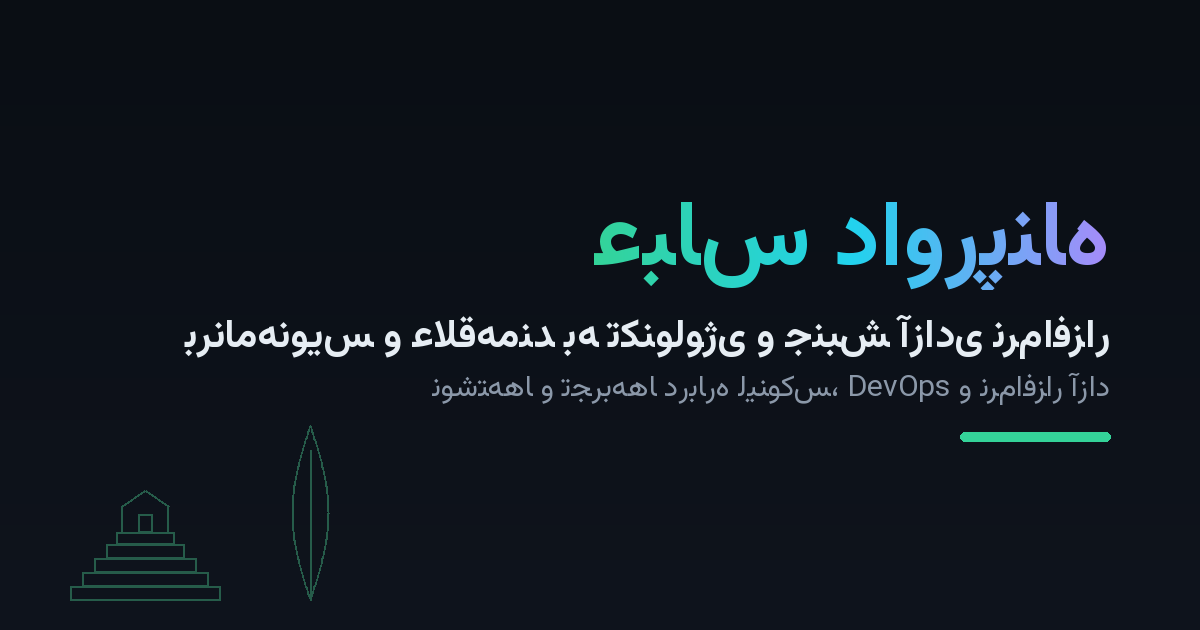
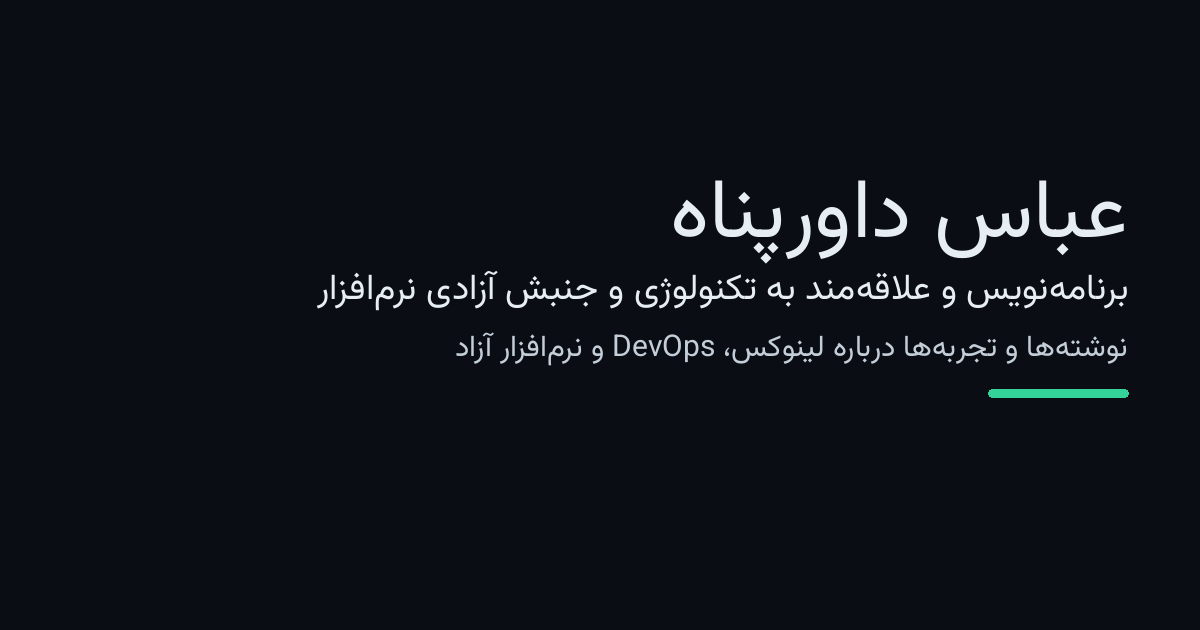
Fix Persian shaping on the default Open Graph image.
Render the 1200x630 card with Vazirmatn through Pillow/libraqm so
the three RTL lines join correctly instead of appearing reversed.

diff --git a/scripts/make_og_image.py b/scripts/make_og_image.py
@@ -1,93 +1,93 @@
 #!/usr/bin/env python3
-"""ساخت تصویر Open Graph (۱۲۰۰×۶۳۰) برای اشتراکگذاری در شبکههای اجتماعی.
+"""ساخت تصویر Open Graph (۱۲۰۰×۶۳۰) با شکلدهی درست فارسی.
+
+از Pillow و libraqm استفاده میکند تا حروف عربی/فارسی بههم بچسبند
+و متن راستبهچپ باشد. reshaper جدا لازم نیست.
 
 خروجی: static/og-default.png
-نیازمندیها (فقط برای اجرای این اسکریپت، نه اجرای سایت):
-    pip install pillow arabic-reshaper python-bidi
-    و فونت Vazirmatn بهصورت سیستمی نصب باشد.
 اجرا: python scripts/make_og_image.py
 """
 
 from __future__ import annotations
 
-import math
 from pathlib import Path
 
-import arabic_reshaper
-from bidi.algorithm import get_display
 from PIL import Image, ImageDraw, ImageFont
 
 BASE = Path(__file__).resolve().parent.parent
-REG = "/usr/share/fonts/truetype/vazirmatn/Vazirmatn-Regular.ttf"
-BLD = "/usr/share/fonts/truetype/vazirmatn/Vazirmatn-Bold.ttf"
+FONT = "/usr/share/fonts/vazirmatn-vf-fonts/Vazirmatn[wght].ttf"
 
 NAME = "عباس داورپناه"
 SUBTITLE = "برنامهنویس و علاقهمند به تکنولوژی و جنبش آزادی نرمافزار"
 DESC = "نوشتهها و تجربهها درباره لینوکس، DevOps و نرمافزار آزاد"
 
+W, H = 1200, 630
+BG = (10, 14, 20)
+FG = (230, 237, 243)
+MUTED = (196, 206, 216)
+ACCENT = (52, 211, 153)
+RIGHT = W - 72
+MAX_W = W - 144
 
-def fa(text: str) -> str:
-    return get_display(arabic_reshaper.reshape(text))
+
+def load_font(size: int) -> ImageFont.FreeTypeFont:
+    return ImageFont.truetype(FONT, size, layout_engine=ImageFont.Layout.RAQM)
+
+
+def text_width(draw: ImageDraw.ImageDraw, text: str, font: ImageFont.FreeTypeFont) -> int:
+    bbox = draw.textbbox((0, 0), text, font=font, direction="rtl", language="fa")
+    return bbox[2] - bbox[0]
+
+
+def wrap(draw: ImageDraw.ImageDraw, text: str, font: ImageFont.FreeTypeFont, max_w: int) -> list[str]:
+    words = text.split(" ")
+    lines: list[str] = []
+    cur = ""
+    for word in words:
+        trial = word if not cur else f"{cur} {word}"
+        if text_width(draw, trial, font) <= max_w or not cur:
+            cur = trial
+        else:
+            lines.append(cur)
+            cur = word
+    if cur:
+        lines.append(cur)
+    return lines
+
+
+def draw_rtl(draw: ImageDraw.ImageDraw, y: int, text: str, font: ImageFont.FreeTypeFont, fill) -> int:
+    draw.text(
+        (RIGHT, y),
+        text,
+        font=font,
+        fill=fill,
+        direction="rtl",
+        language="fa",
+        anchor="ra",
+    )
+    bbox = draw.textbbox((RIGHT, y), text, font=font, direction="rtl", language="fa", anchor="ra")
+    return bbox[3] - bbox[1]
 
 
 def main() -> None:
-    W, H = 1200, 630
-    img = Image.new("RGB", (W, H), (10, 14, 20))
-    d = ImageDraw.Draw(img)
-    for y in range(H):
-        t = y / H
-        d.line([(0, y), (W, y)], fill=(int(10 + t * 5), int(14 + t * 6), int(20 + t * 9)))
+    img = Image.new("RGB", (W, H), BG)
+    draw = ImageDraw.Draw(img)
+    f_title = load_font(84)
+    f_sub = load_font(36)
+    f_desc = load_font(30)
 
-    f_title = ImageFont.truetype(BLD, 92)
-    f_sub = ImageFont.truetype(BLD, 40)
-    f_desc = ImageFont.truetype(REG, 30)
-    right = W - 90
+    y = 150
+    y += draw_rtl(draw, y, NAME, f_title, FG) + 28
+    for line in wrap(draw, SUBTITLE, f_sub, MAX_W):
+        y += draw_rtl(draw, y, line, f_sub, FG) + 14
+    y += 8
+    for line in wrap(draw, DESC, f_desc, MAX_W):
+        y += draw_rtl(draw, y, line, f_desc, MUTED) + 12
 
-    def draw_rtl(y, text, font, fill):
-        t = fa(text)
-        w = d.textlength(t, font=font)
-        d.text((right - w, y), t, font=font, fill=fill)
-
-    title = fa(NAME)
-    tw = int(d.textlength(title, font=f_title))
-    th = 120
-    mask = Image.new("L", (tw, th), 0)
-    ImageDraw.Draw(mask).text((0, 0), title, font=f_title, fill=255)
-    grad = Image.new("RGB", (tw, th))
-    gd = ImageDraw.Draw(grad)
-    c0, c1, c2 = (52, 211, 153), (34, 211, 238), (167, 139, 250)
-    for x in range(tw):
-        p = x / max(tw - 1, 1)
-        if p < 0.5:
-            q = p / 0.5
-            col = tuple(int(c0[i] + (c1[i] - c0[i]) * q) for i in range(3))
-        else:
-            q = (p - 0.5) / 0.5
-            col = tuple(int(c1[i] + (c2[i] - c1[i]) * q) for i in range(3))
-        gd.line([(x, 0), (x, th)], fill=col)
-    img.paste(grad, (right - tw, 170), mask)
-
-    draw_rtl(305, SUBTITLE, f_sub, (230, 237, 243))
-    draw_rtl(365, DESC, f_desc, (139, 152, 169))
-    d.rounded_rectangle([right - 150, 432, right, 441], radius=4, fill=(52, 211, 153))
-
-    ox, oy, col = 70, 300, (38, 92, 74)
-    tiers = [(0, 286, 150, 300), (12, 272, 138, 286), (24, 258, 126, 272),
-             (36, 244, 114, 258), (46, 232, 104, 244)]
-    for (x1, yt, x2, yb) in tiers:
-        d.rectangle([ox + x1, oy + yt, ox + x2, oy + yb], outline=col, width=2)
-    d.line([(ox + 52, oy + 232), (ox + 52, oy + 206)], fill=col, width=2)
-    d.line([(ox + 98, oy + 232), (ox + 98, oy + 206)], fill=col, width=2)
-    d.line([(ox + 52, oy + 206), (ox + 75, oy + 190), (ox + 98, oy + 206)], fill=col, width=2)
-    d.rectangle([ox + 68, oy + 214, ox + 82, oy + 232], outline=col, width=2)
-    cx = ox + 240
-    d.line([(cx, oy + 150), (cx, oy + 300)], fill=col, width=2)
-    pts = [(cx + 18 * math.sin((i / 100) * math.pi), oy + 126 + 174 * (i / 100)) for i in range(101)]
-    d.line(pts, fill=col, width=2)
-    d.line([(2 * cx - x, y) for (x, y) in pts], fill=col, width=2)
+    draw.rounded_rectangle([RIGHT - 140, y + 18, RIGHT, y + 26], radius=4, fill=ACCENT)
 
     out = BASE / "static" / "og-default.png"
-    img.save(out)
+    img.save(out, "PNG", optimize=True)
     print("saved", out, img.size)
 
 
